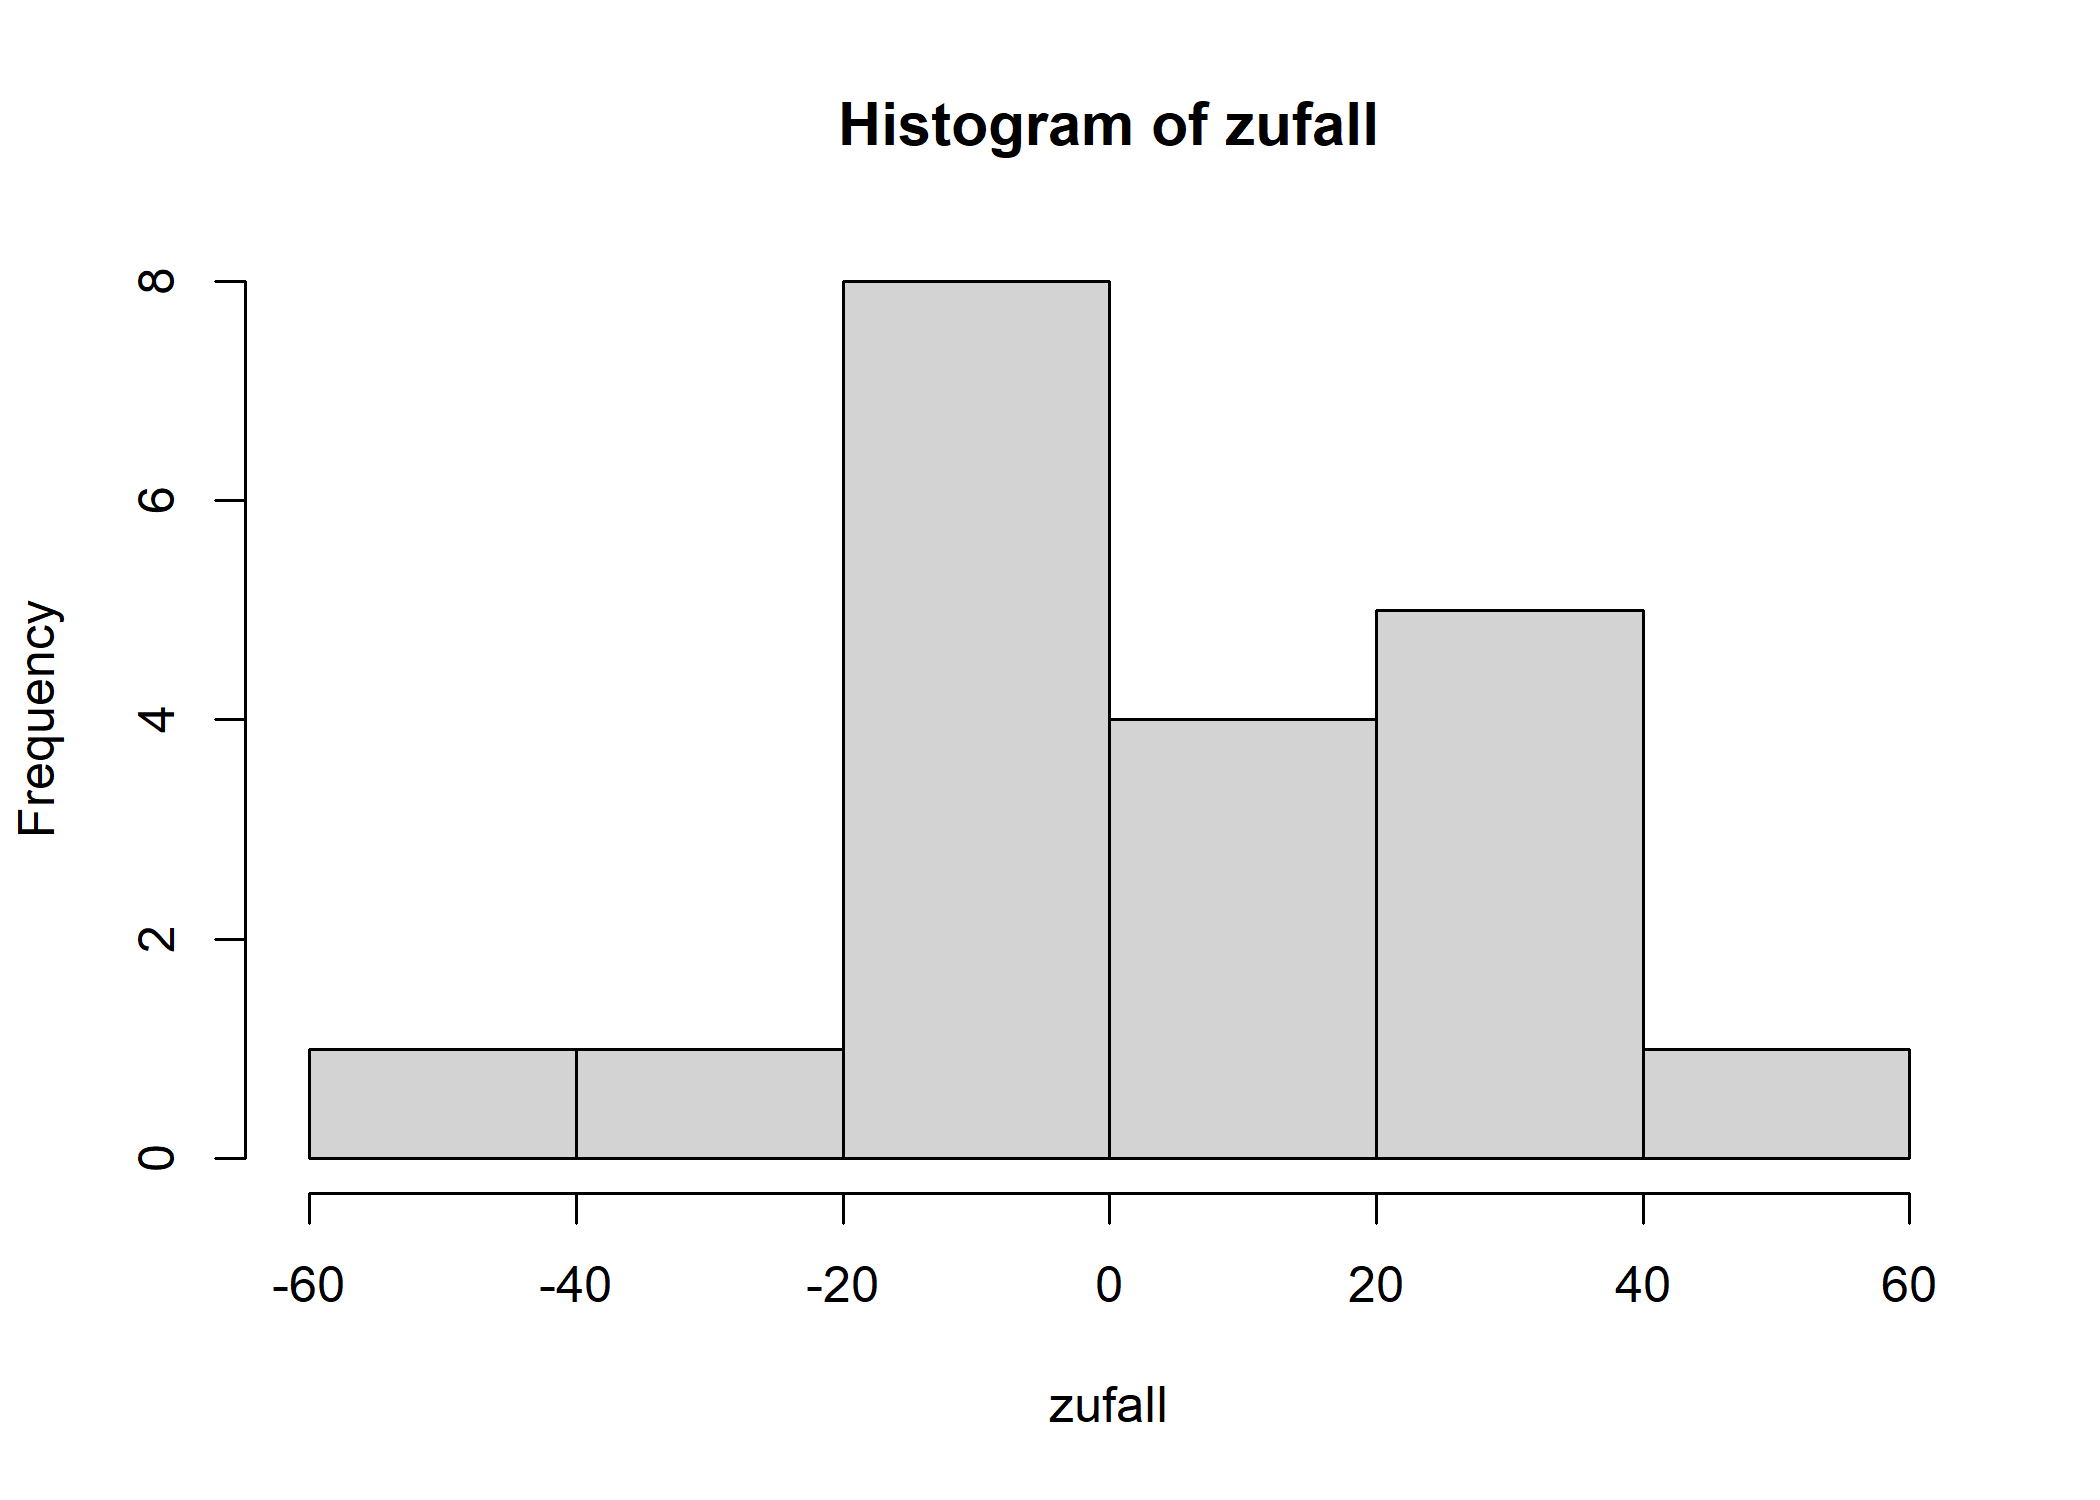
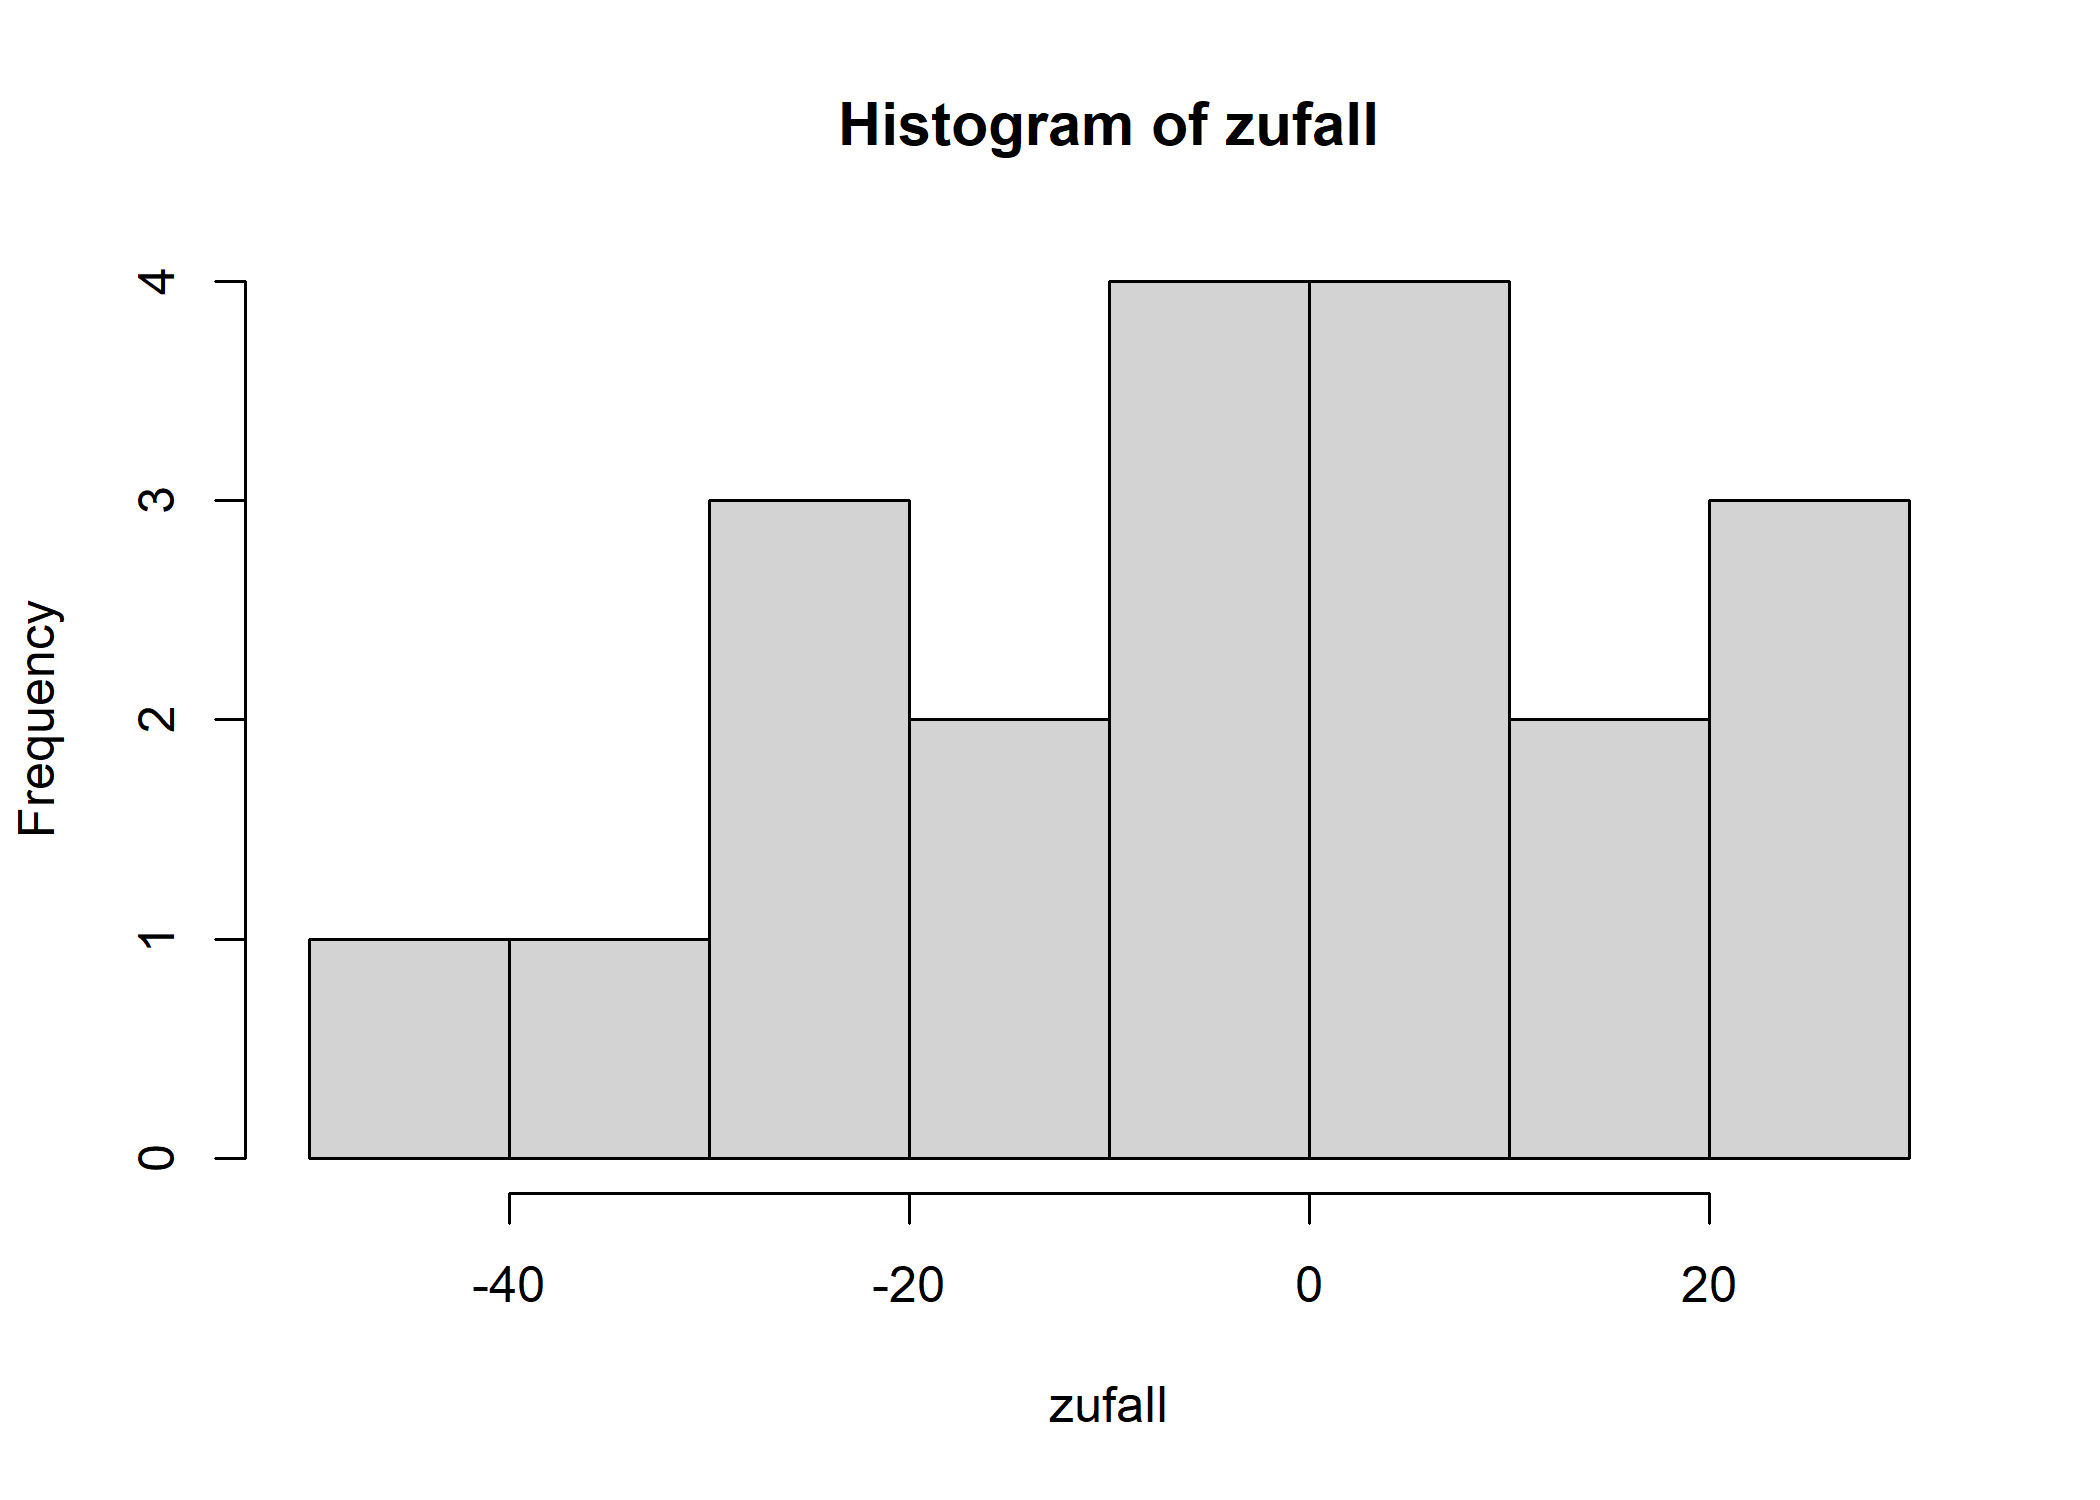
.

diff --git a/docs/m2_home.html b/docs/m2_home.html
@@ -424,18 +424,18 @@ Menge von Objekten in R, durch Pfeil definiert, mit Funktion c=combine zusammeng
 <span id="cb16-2"><a href="#cb16-2" aria-hidden="true" tabindex="-1"></a><span class="fu">summary</span>(zufall)</span></code></pre></div><button title="Copy to Clipboard" class="code-copy-button"><i class="bi"></i></button></div>
 </details>
 <div class="cell-output cell-output-stdout">
-<pre><code>    Min.  1st Qu.   Median     Mean  3rd Qu.     Max. 
--45.8680 -12.3383  -0.2746   2.8715  23.1893  41.1618 </code></pre>
+<pre><code>   Min. 1st Qu.  Median    Mean 3rd Qu.    Max. 
+-46.886 -16.959  -5.509  -3.583   9.820  25.824 </code></pre>
 </div>
 <details open="" class="code-fold">
 <summary>R-Code anzeigen</summary>
 <div class="code-copy-outer-scaffold"><div class="sourceCode cell-code" id="cb18"><pre class="sourceCode r code-with-copy"><code class="sourceCode r"><span id="cb18-1"><a href="#cb18-1" aria-hidden="true" tabindex="-1"></a>zufall</span></code></pre></div><button title="Copy to Clipboard" class="code-copy-button"><i class="bi"></i></button></div>
 </details>
 <div class="cell-output cell-output-stdout">
-<pre><code> [1]  29.724933 -17.670998  27.077636 -45.868006  27.317873   4.577342
- [7] -30.412621   5.417884  34.007225  41.161802  -5.944987  21.893126
-[13]  -5.511135 -16.541063  19.147378  10.052797 -11.353613 -15.292355
-[19]  -9.227703  -5.126463</code></pre>
+<pre><code> [1]   9.179173  -4.400853 -33.560784  -6.617933   8.129160  -6.886447
+ [7]  24.573263  25.824357   7.824911 -24.652288  19.851547 -46.885889
+[13]   5.267410 -14.623375  25.078119  -8.110058 -23.964945 -10.595014
+[19]  11.741128 -28.830585</code></pre>
 </div>
 </div>
 <p><strong>Histogramm</strong><br>

diff --git a/docs/start.html b/docs/start.html
@@ -221,7 +221,7 @@ pre > code.sourceCode > span > a:first-child::before { text-decoration: underlin
 <li>We create data, saved in <code>x</code> and <code>y</code></li>
 <li>We create the plot with the <code>plt.plot</code> function.</li>
 </ul>
-<div id="7c3a3400" class="cell" data-execution_count="1">
+<div id="2fa3d738" class="cell" data-execution_count="1">
 <details class="code-fold">
 <summary>R-Code anzeigen</summary>
 <div class="code-copy-outer-scaffold"><div class="sourceCode cell-code" id="cb1"><pre class="sourceCode python code-with-copy"><code class="sourceCode python"><span id="cb1-1"><a href="#cb1-1" aria-hidden="true" tabindex="-1"></a><span class="im">import</span> matplotlib.pyplot <span class="im">as</span> plt</span>

diff --git a/docs/index.html b/docs/index.html
@@ -212,7 +212,7 @@ window.Quarto = {
     <div>
     <div class="quarto-title-meta-heading">Published</div>
     <div class="quarto-title-meta-contents">
-      <p class="date">14.03.2026</p>
+      <p class="date">15.04.2026</p>
     </div>
   </div>
   
